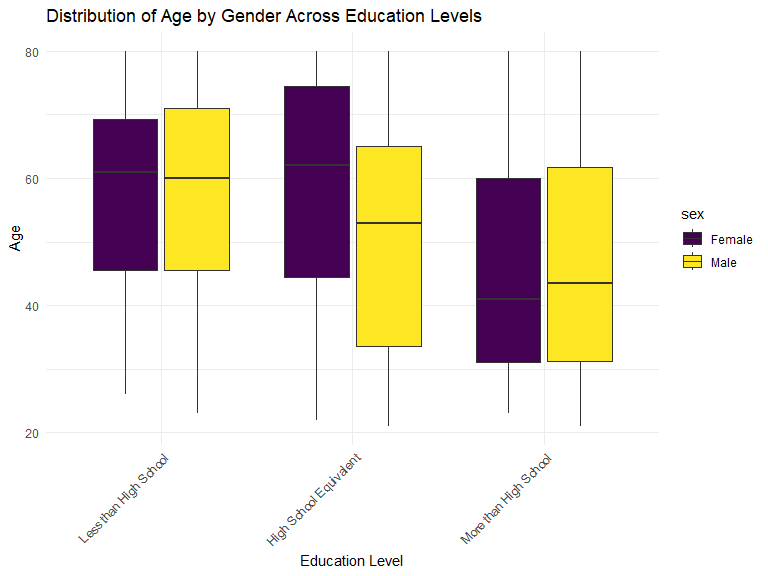
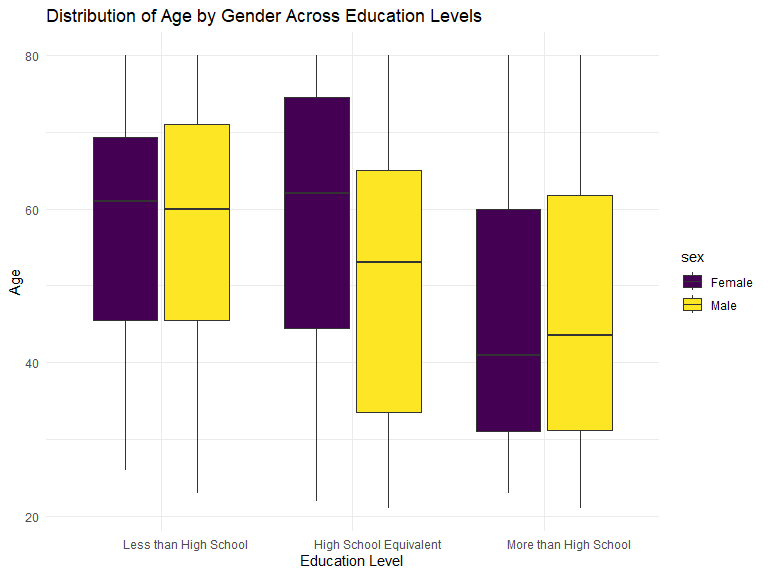
Problem 3: observations and final touches

diff --git a/p8105_hw3.md b/p8105_hw3.md
@@ -204,7 +204,7 @@ spaghetti_plot =
     x = "Year",
     y = "Avg data value",
     color = "State",
-    theme(plot.title = element_text(hjust = 0.5)
+    theme(plot.title = element_text(angle = 60, hjust = 0.3)
     ))
 spaghetti_plot
 ```
@@ -224,12 +224,12 @@ brfss_df |>
     year == 2006 | year == 2010,
     locationabbr == "NY") |> 
   ggplot(aes(x = data_value, fill = response)) +
-  geom_boxplot(aes(fill = response), alpha = .5) +
+  geom_boxplot(aes(fill = response), alpha = .3) +
    
   labs(
     title = "Data Values Across different Locations in NY State",
-    x = "Data Value",
-    fill = "Response") + 
+    x = "Data_Value",
+    fill = "Responses") + 
   facet_grid(. ~ year)
 ```
 
@@ -324,7 +324,7 @@ nhanes_education_table =
        x = "Education Level",
        y = "Age") +
   theme_minimal() +
-  theme(axis.text.x = element_text(angle = 45, hjust = 1))
+  theme(axis.text.x = element_text(hjust = 0.3))
 
 nhanes_education_table
 ```
@@ -355,7 +355,7 @@ nhanes_total_activity_plot =
     title = "Total Activity by Age Across Education Levels",
     x = "Age",
     y = "Activity") +
-  theme(plot.title = element_text(hjust = 0.5))
+  theme(plot.title = element_text(hjust = 0.3))
 
 nhanes_total_activity_plot
 ```
@@ -363,6 +363,7 @@ nhanes_total_activity_plot
     ## `geom_smooth()` using method = 'loess' and formula = 'y ~ x'
 
 <img src="p8105_hw3_files/figure-gfm/unnamed-chunk-14-1.png" width="90%" />
+
 Description: There is a direct proportional relationship between age and
 activity. As participants age, their total level of activities decreases
 with time. Similarly, there is a decrease in activity across all
@@ -400,8 +401,11 @@ three_panel_plot
 
 <img src="p8105_hw3_files/figure-gfm/unnamed-chunk-15-1.png" width="90%" />
 
-Observations: The distribution of MIMS is similar among males and
-females. Overall the “less than high school education” category has the
-highest mean value of MIMS. Male have a lower value of MIMS than female
-across all education levels. MIMS values start decreasing steadily after
-approx 1200min across all education levels and gender.
+Observations: 1. The distribution of MIMS is similar among males and
+females. 2. Overall the “less than high school education” category has
+the highest mean value of MIMS. 3. Male have a lower value of MIMS than
+female across all education levels. 4. MIMS values start decreasing
+steadily after approx 1200min across all education levels and gender. 5.
+Females in the “less than high school” category have the lowest MIMS
+between 0-500min, versus males have the highest MIMS value in the same
+education category between ~500-550min.
